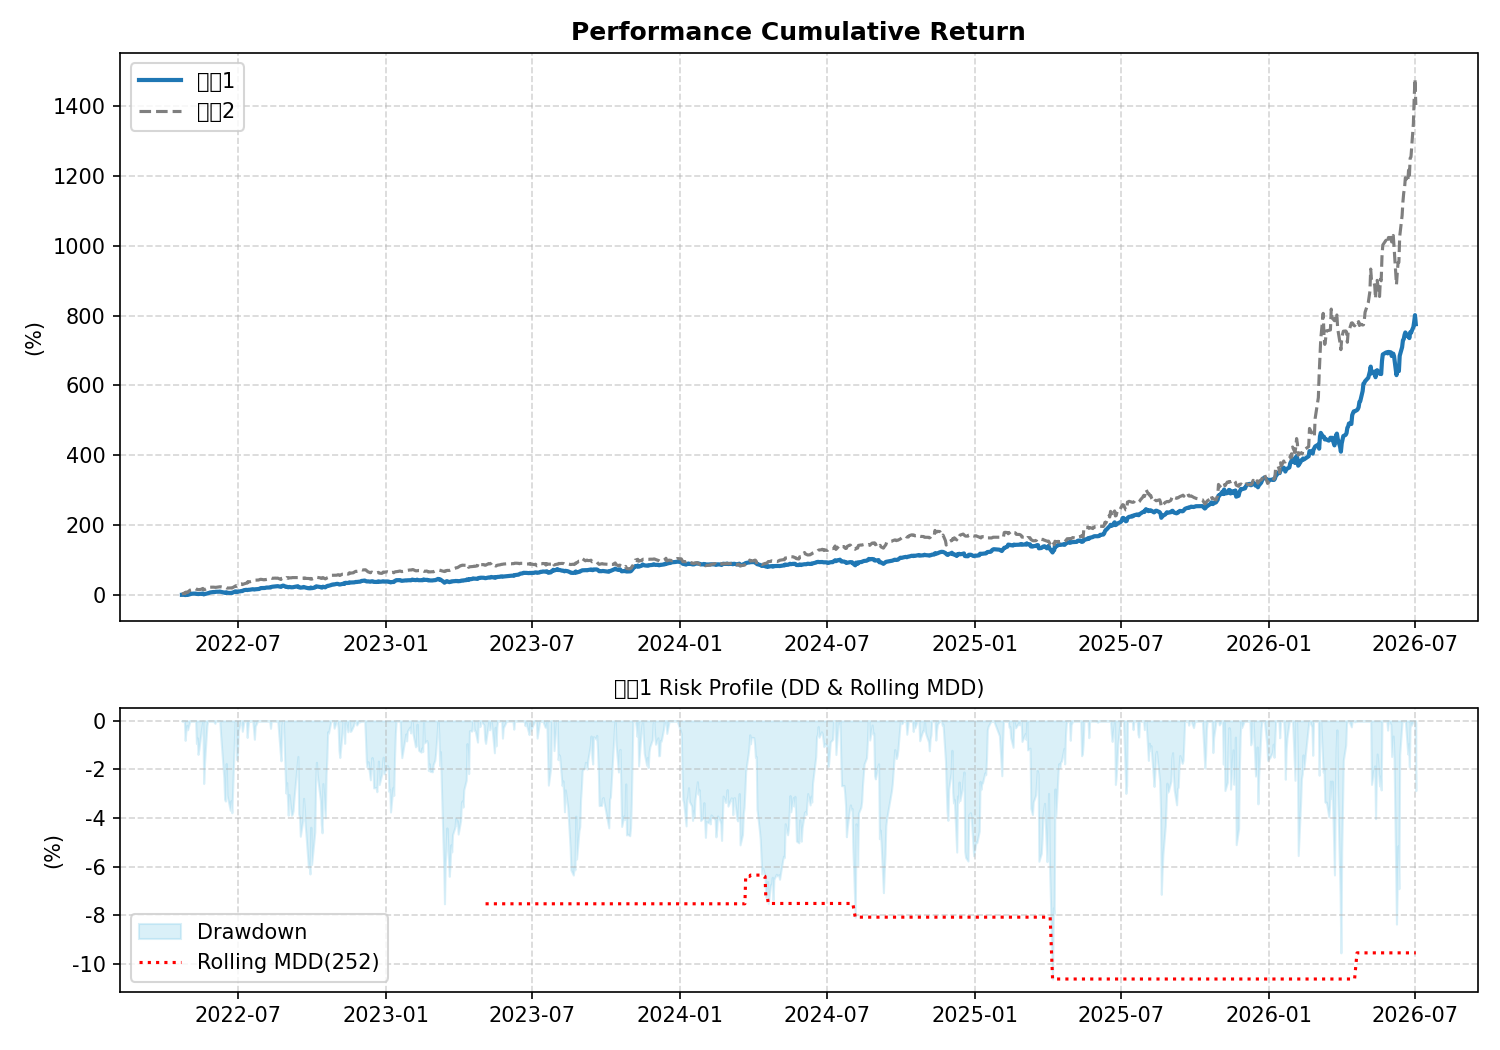
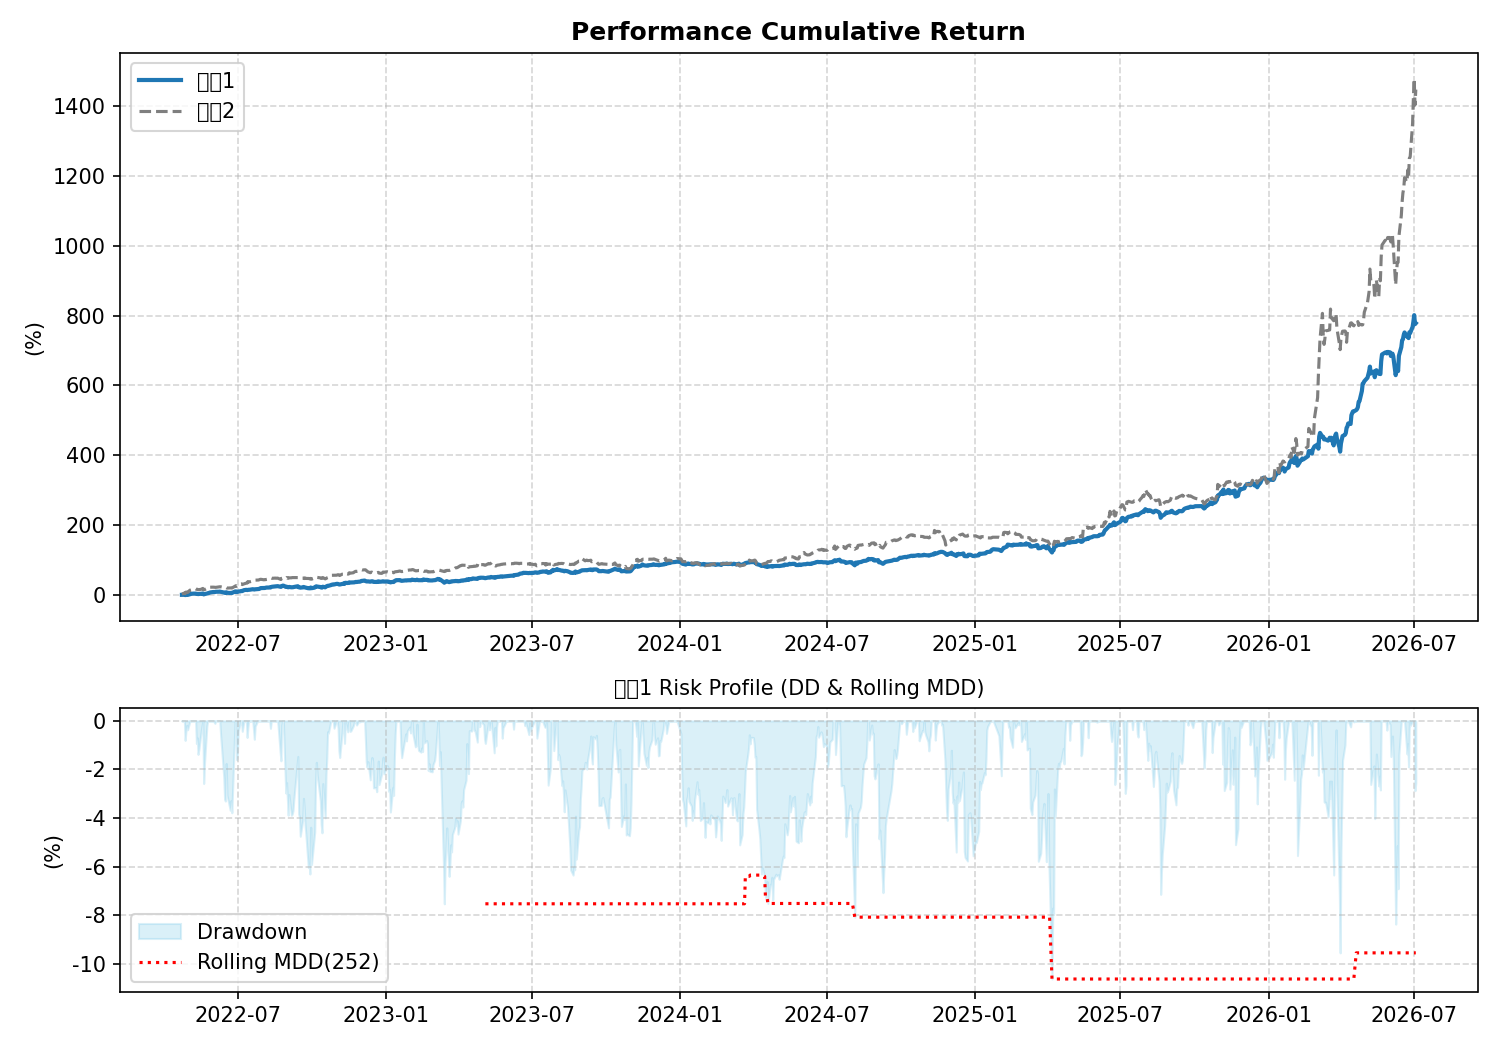
Auto commit

diff --git a/_pages/st_stock_future.md b/_pages/st_stock_future.md
@@ -1,7 +1,7 @@
 ---
 title: 전략테스트(주식선물)
 author: Best Investor
-date: 2026-07-02 17:03:20
+date: 2026-07-03 16:52:30
 category: Jekyll
 layout: post
 mermaid: true
@@ -15,13 +15,13 @@ parent: 포트폴리오
 
 | 지표 | 전략 1 (S1) | 전략 2 (S2) | 차이 (Diff) |
 | :--- | :---: | :---: | :---: |
-| **30일 수익률** | 18.84% | 49.8% | -30.96% |
-| **1년 수익률** | 194.09% | 362.52% | -168.43% |
-| **전체 수익률** | 775.44% | 1403.88% | -628.44% |
+| **30일 수익률** | 19.93% | 54.82% | -34.89% |
+| **1년 수익률** | 185.67% | 355.25% | -169.58% |
+| **전체 수익률** | 778.28% | 1447.93% | -669.65% |
 | **MDD (1Y)** | -9.56% | -12.67% | 3.11%p |
 | **MDD (ALL)** | **-10.63%** | **-16.06%** | 5.43%p |
-| **샤프 (1Y)** | 4.23 | 3.7 | 0.53 |
-| **샤프 (ALL)** | **2.94** | **2.48** | 0.46 |
+| **샤프 (1Y)** | 4.14 | 3.68 | 0.46 |
+| **샤프 (ALL)** | **2.95** | **2.5** | 0.45 |
 
 ## 📉 누적 성과 및 리스크 차트
 1. **최근 30일:** ![30일](/img_st/st2_stockfuture_cum_risk_30d.png)

diff --git a/_posts/signal/2026-04-01-signal.md b/_posts/signal/2026-04-01-signal.md
@@ -7,6 +7,18 @@ category: Jekyll
 ---
 ## 시그널  
 
+### 📊 2026-07-06 Morning Trading Signal
+
+- 📅 날짜: 2026-07-06  
+- ⏰ 시간: 08:45  
+- 🧾 종목: **KODEX 인버스**  
+- 📉 포지션: **하방**
+
+##### 🧭 Execution Plan
+- 🚀 진입: 오늘 시가_진입(매수)
+- 🎯 청산: 오늘 종가_청산
+
+
 ### 📊 2026-07-03 Afternoon Trading Signal
 
 - 📅 날짜: 2026-07-03  